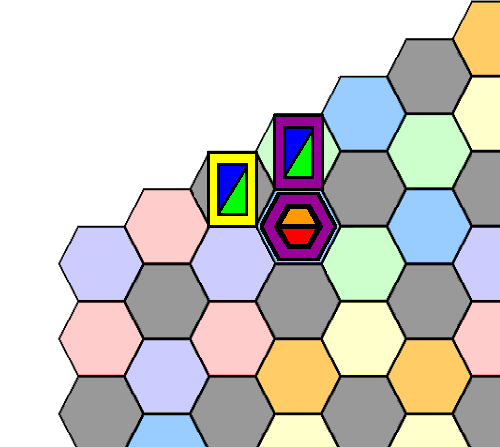
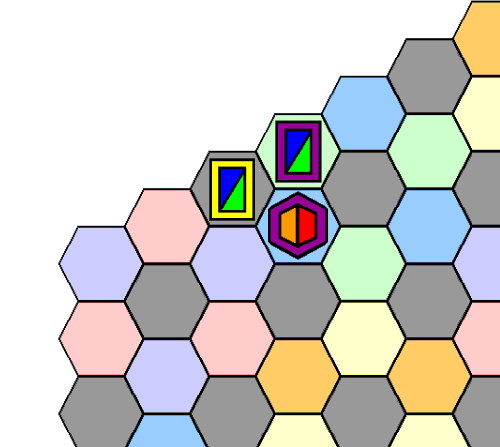
Changing graphics for pieces for better fit on board

Changed region(s): [[0.39, 0.2327, 0.69, 0.6107]]

diff --git a/static/Rules1.html b/static/Rules1.html
@@ -15,19 +15,32 @@
 <h2><b>
 1) Object of the Game
 </b></h2>
-<p>Flic Flac is a timed <span class="myBoldGreen">(N seconds)</span> turn based game. The first player <span class="myBoldGreen">to score 11</span> or more captures, with a lead of 2 captures, is the winner. This page summarises the rules. The following pages give more explanations and example game scenarios.</p>
+<p>
+  Flic Flac is a timed <span class="myBoldGreen">(N seconds)</span> turn based game. The first player <span class="myBoldGreen">
+  to score 11</span> or more captures, with a lead of 2 captures, is the winner. This page summarises the rules. The following
+  pages give more explanations and example game scenarios.
+</p>
 
 <h2><b>
 2) Movement
 </b></h2>
 
-<p>All 6 pieces may optionally move once in each timed turn (and successful capture(s) lead to an additional limited turn).  A piece may not directly pass through, or land on another piece. There are two ways a piece can move:</p>
+<p>
+  Each player has 6 pieces which may optionally move once during each timed turn. Successful capture(s) lead to an additional
+  turn <span class="myBoldGreen">of shorter duration.</span> A piece may not directly pass through, or land on another piece. 
+  There are two ways a piece can move:
+</p>
 <ul>
   <li>Up to 3 coloured hexagons</li>
   <li>Onto an adjacent black hexagon, which causes the piece to flip over so that the centre colours change.</li>
 </ul>
-<p>A piece returns to its home position when it is captured. An additional turn, <span class="myBoldGreen">of shorter duration,</span> is chained onto the end of the current turn, when an opponent's piece(s) is captured. This turn is limited to the captor(s). More captures leads to more additional turns.<br>
-<i>(NB. There is a maneuver called “indirect pass through” which helps pieces reposition. Please see example scenarios on later pages)</i></p>
+<p>A piece returns to its home position when it is captured. Additional shorter turns are for the captor(s) only. More captures
+   leads to more additional turns.
+  <br>
+<i>
+  (NB. There is a maneuver called “indirect pass through” which helps pieces reposition. Please see example scenarios on later pages)
+</i>
+</p>
 
 <h2><b>
 3) Capture
@@ -41,7 +54,7 @@
 Adjacent pieces form a “melee” at the adjoining border(s).  Pieces may only attack, defend and support across borders when the flying colours match the target body colour. No colour match means no positive points gained across that border for that piece. At the start of a “melee” each piece has a score of zero and this is adjusted, <b>for all pieces,</b> as follows:<br>
 <ul>
 <li>+1 for each piece flying the body colour of an adjacent piece.</li>
-<li>+2 for each empowered piece flying the body colour of an adjacent piece.</li>
+<li>+2 for each empowered piece <b>which is also flying</b> the body colour of an adjacent piece.</li>
 <li>-1 if an opposing piece has scored +1 as above.</li>
 <li>-2 if an opposing piece has scored +2 as above.</li>
 </ul>

diff --git a/static/Rules3.html b/static/Rules3.html
@@ -49,7 +49,7 @@
 
 <div class="rowM1">
   <div class="columnM1">
-    When the Cylinder Player moves, the blue cylinder to the adjacent red hexagon,
+    When the Cylinder Player moves the blue cylinder to the adjacent red hexagon,
     the blue cylinder becomes steady to indicate that it has moved this turn. The board shows this:
   </div>
   <div class="columnM2">
